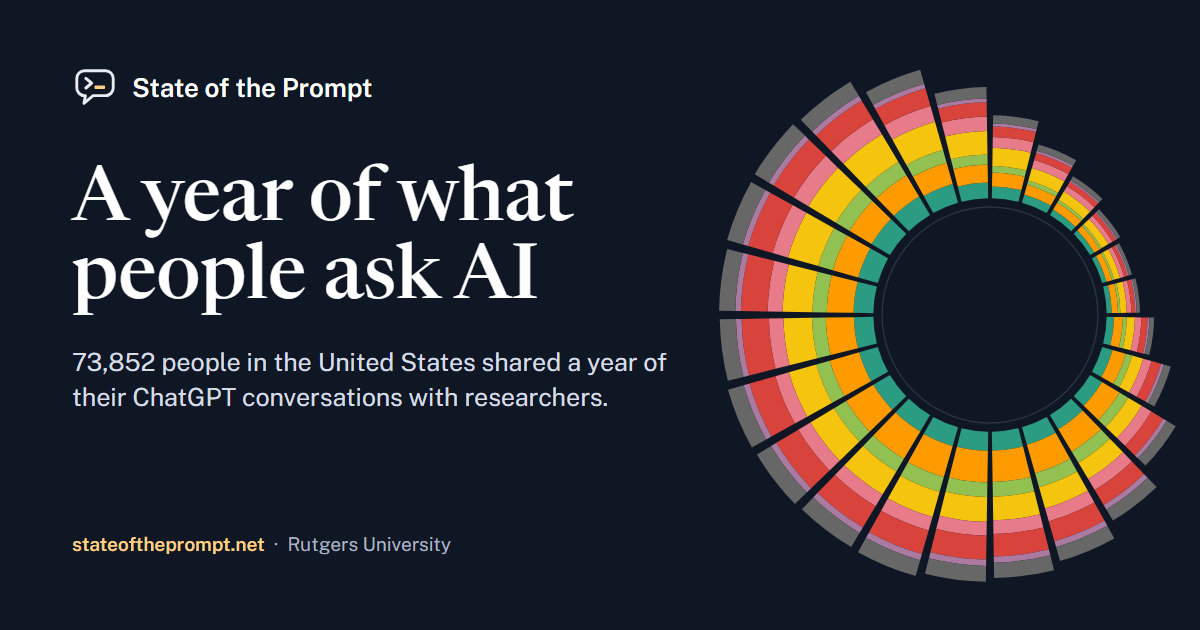
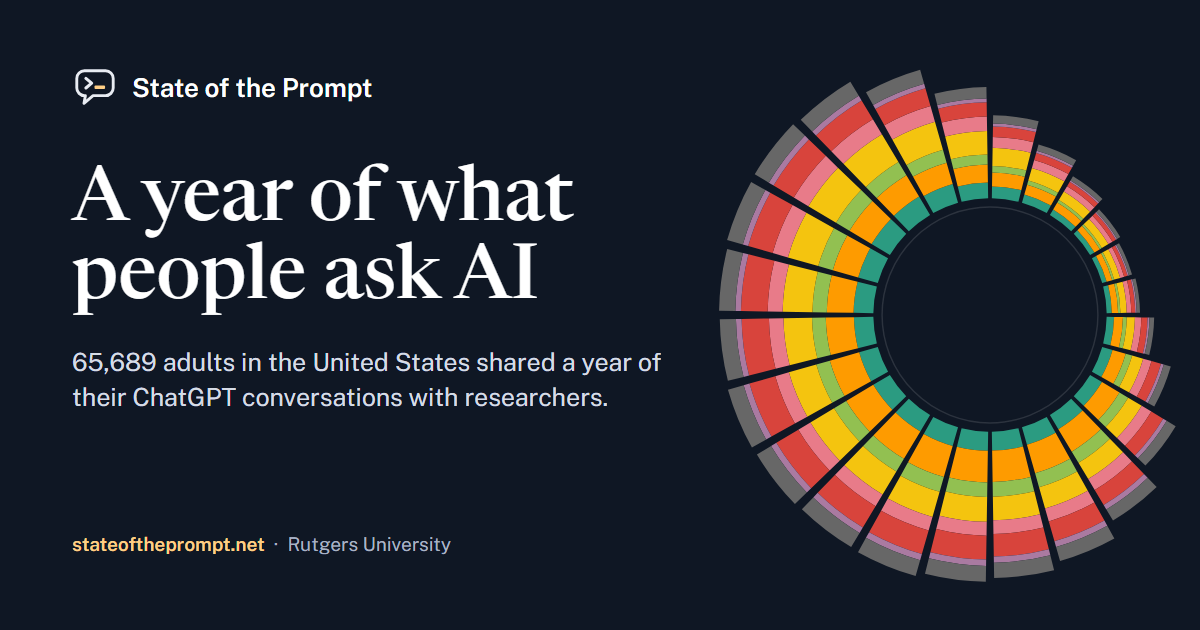
Numners/card updted.

Changed region(s): [[0.0617, 0.5429, 0.555, 0.6032]]

diff --git a/index.html b/index.html
@@ -5,7 +5,7 @@
 <meta name="viewport" content="width=device-width, initial-scale=1">
 <script src="assets/analytics.js"></script>
 <title>State of the Prompt: What People Ask AI</title>
-<meta name="description" content="What people ask AI: a year of ChatGPT conversations shared by 73,852 people in the US. A Rutgers University project with interactive exploration tools.">
+<meta name="description" content="What people ask AI: a year of ChatGPT conversations shared by 65,689 adults in the US. A Rutgers University project with interactive exploration tools.">
 <meta property="og:site_name" content="State of the Prompt">
 <meta property="og:type" content="website">
 <meta name="twitter:card" content="summary_large_image">
@@ -27,7 +27,7 @@
 <meta property="og:image:alt" content="State of the Prompt: a year of what people ask AI. A ring of colored wedges shows conversations by hour of the day and subject.">
 <meta name="twitter:image:alt" content="State of the Prompt: a year of what people ask AI. A ring of colored wedges shows conversations by hour of the day and subject.">
 <meta property="og:title" content="State of the Prompt: What People Ask AI">
-<meta property="og:description" content="What people ask AI: a year of ChatGPT conversations shared by 73,852 people in the US. A Rutgers University project with interactive exploration tools.">
+<meta property="og:description" content="What people ask AI: a year of ChatGPT conversations shared by 65,689 adults in the US. A Rutgers University project with interactive exploration tools.">
 <link rel="icon" href="assets/favicon.svg" type="image/svg+xml">
 <link rel="preconnect" href="https://fonts.googleapis.com">
 <link rel="preconnect" href="https://fonts.gstatic.com" crossorigin>
@@ -245,7 +245,7 @@ footer { background: var(--night); color: var(--on-night-2); padding-block: 36px
     <div>
       <p class="eyebrow">Rutgers University<br>School of Communication and Information</p>
       <h1>A year of what people ask AI</h1>
-      <p class="lede">An opt-in panel of 73,852 people in the United States shared their ChatGPT conversations with researchers for twelve months. We study what they asked, who asked it, and when.</p>
+      <p class="lede">Through an opt-in research panel, 65,689 adults in the United States shared their ChatGPT conversations with researchers for twelve months. We study what they asked, who asked it, and when.</p>
       <p class="now" id="now" aria-live="polite"></p>
       <div class="cta">
         <a class="btn btn-red" href="#explore">Explore the data</a>

diff --git a/assets/social-card.html b/assets/social-card.html
@@ -33,7 +33,7 @@ svg { position: absolute; right: -70px; top: 50%; transform: translateY(-50%); w
 <div class="text">
   <div class="brand"><img src="logo.svg" alt="">State of the Prompt</div>
   <h1>A year of what people ask AI</h1>
-  <p class="lede">73,852 people in the United States shared a year of their ChatGPT conversations with researchers.</p>
+  <p class="lede">65,689 adults in the United States shared a year of their ChatGPT conversations with researchers.</p>
 </div>
 <p class="foot"><b>stateoftheprompt.net</b> &nbsp;·&nbsp; Rutgers University</p>
 <svg id="dial" viewBox="8 8 384 384" aria-hidden="true"></svg>
